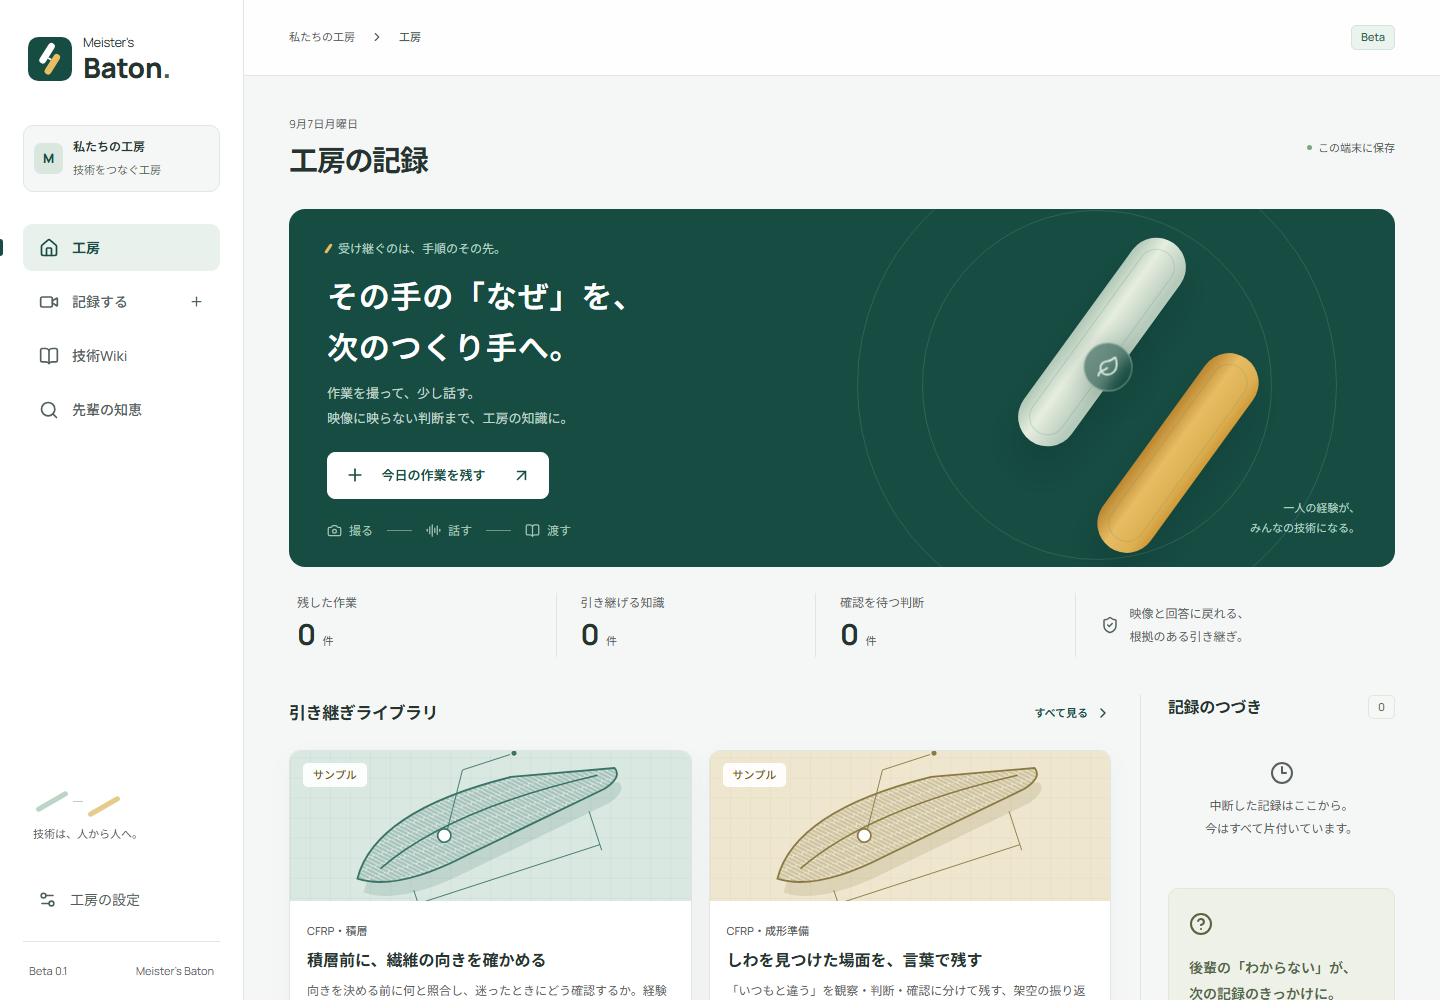
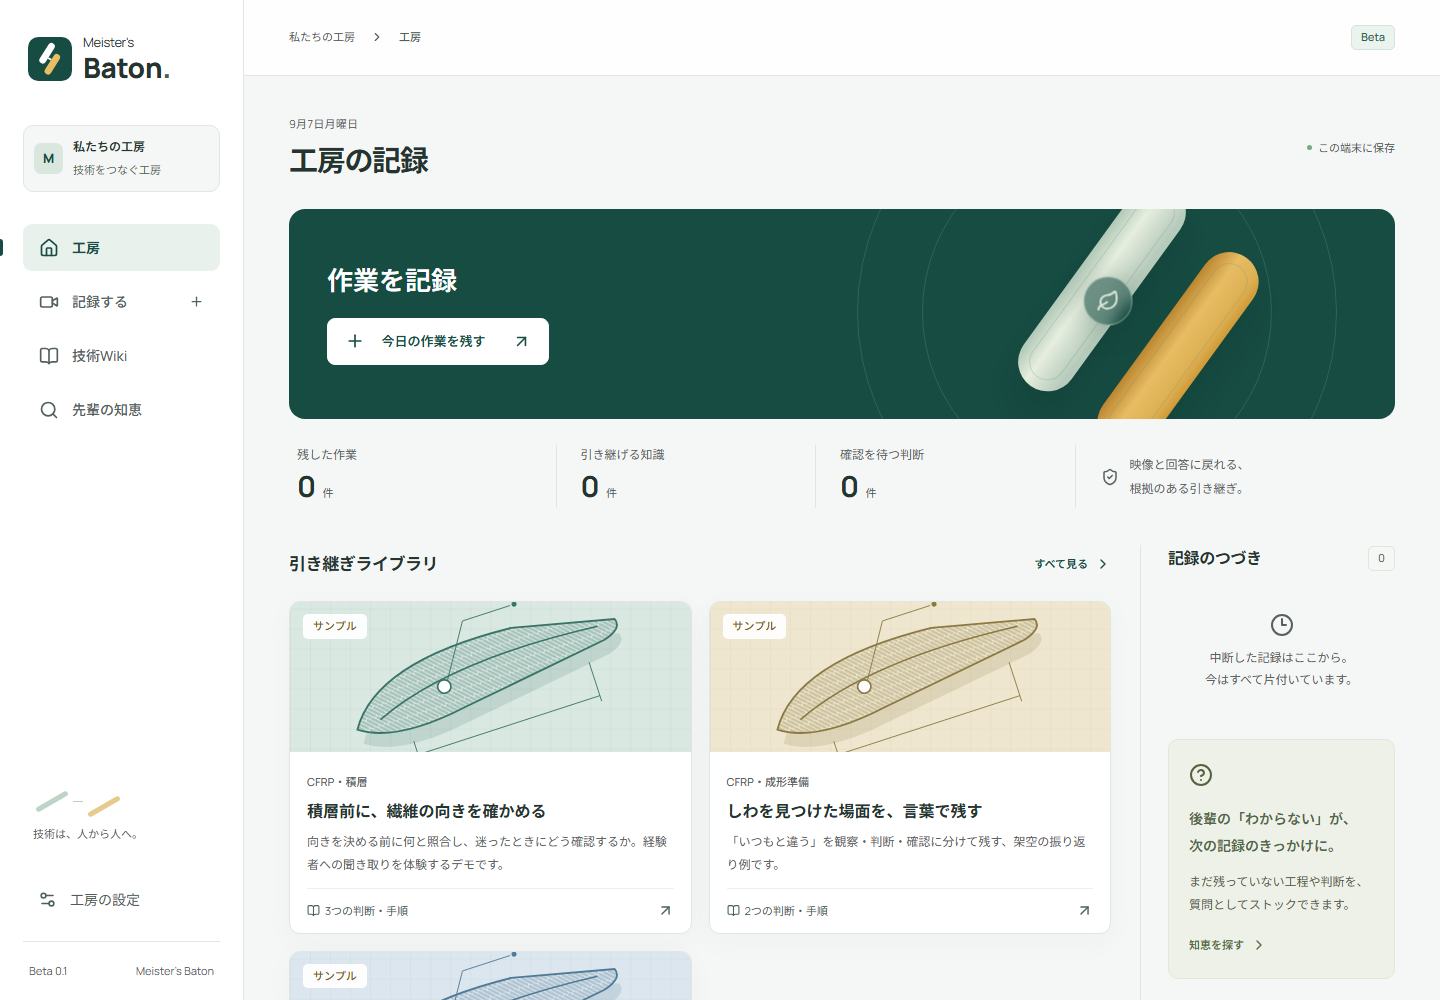
Simplify the home recording panel

diff --git a/src/styles-mobile.css b/src/styles-mobile.css
@@ -1,16 +1,13 @@
 /* Responsive overrides are imported by the main stylesheet and use higher specificity where needed. */
 @media (min-width: 1700px) {
   body .workbench {
-    min-height: 350px;
+    min-height: 230px;
   }
   body .workbench-copy {
-    padding: 37px 43px;
+    padding: 36px 43px;
   }
   body .workbench h2 {
-    font-size: 37px;
-  }
-  body .workbench p {
-    font-size: 13px;
+    font-size: 30px;
   }
   body .tile-image {
     height: 190px;
@@ -45,7 +42,7 @@
     padding-left: 28px;
   }
   body .workbench h2 {
-    font-size: 27px;
+    font-size: 24px;
   }
   body .work-stats > p {
     font-size: 11px;
@@ -291,42 +288,22 @@
   }
   body .workbench {
     border-radius: 12px;
-    min-height: 296px;
+    min-height: 176px;
   }
   body .workbench-copy {
-    padding: 25px 23px 23px;
-  }
-  body .workbench-kicker {
-    font-size: 11px;
+    padding: 23px;
   }
   body .workbench h2 {
-    font-size: 24px;
+    font-size: 20px;
     letter-spacing: 0;
-    line-height: 1.8;
-    margin: 11px 0 9px;
-  }
-  body .workbench p {
-    font-size: 11px;
+    line-height: 1.4;
+    margin: 0 0 17px;
   }
   body .workbench .button {
-    margin-top: 17px;
-    min-width: 205px;
-    font-size: 11px;
+    margin-top: 0;
+    min-width: 190px;
+    font-size: 12px;
     padding: 11px 13px;
-  }
-  body .workbench-flow {
-    font-size: 11px;
-    gap: 9px;
-    margin-top: 20px;
-  }
-  body .workbench-flow span {
-    gap: 5px;
-  }
-  body .workbench-flow i {
-    width: 16px;
-  }
-  body .workbench-flow svg {
-    width: 13px;
   }
   body .baton-art {
     left: 60%;
@@ -365,9 +342,6 @@
   }
   body .art-joint svg {
     width: 17px;
-  }
-  body .art-label {
-    display: none;
   }
   body .work-stats {
     grid-template-columns: repeat(3, 1fr);
@@ -1005,7 +979,7 @@
     padding-right: 19px;
   }
   body .workbench h2 {
-    font-size: 22px;
+    font-size: 19px;
   }
   body .baton-art {
     left: 69%;

diff --git a/src/styles.css b/src/styles.css
@@ -532,7 +532,7 @@ main {
   color: #a3453b;
 }
 .workbench {
-  min-height: 300px;
+  min-height: 210px;
   border-radius: 16px;
   background: var(--green);
   color: white;
@@ -541,40 +541,24 @@ main {
   overflow: hidden;
 }
 .workbench-copy {
-  padding: 30px 38px 27px;
+  padding: 32px 38px;
   position: relative;
   z-index: 2;
   flex-shrink: 0;
-}
-.workbench-kicker {
   display: flex;
-  align-items: center;
-  gap: 8px;
-  color: #b9d3c5;
-  font-size: 11px;
-}
-.baton-mark {
-  height: 11px;
-  width: 3px;
-  border-radius: 4px;
-  background: #e6bc63;
-  transform: rotate(35deg);
-  display: inline-block;
+  flex-direction: column;
+  align-items: flex-start;
+  justify-content: center;
 }
 .workbench h2 {
-  font-size: 31px;
-  line-height: 1.65;
-  letter-spacing: 0.025em;
+  font-size: 26px;
+  line-height: 1.35;
+  letter-spacing: 0;
   font-weight: 600;
-  margin: 12px 0 8px;
-}
-.workbench p {
-  font-size: 11px;
-  color: #c0d8cc;
-  line-height: 1.95;
+  margin: 0 0 20px;
 }
 .workbench .button {
-  margin-top: 20px;
+  margin-top: 0;
   padding: 12px 17px;
   min-width: 222px;
   justify-content: space-between;
@@ -582,25 +566,6 @@ main {
 }
 .workbench .button svg:last-child {
   margin-left: 10px;
-}
-.workbench-flow {
-  display: flex;
-  align-items: center;
-  gap: 14px;
-  color: #a6c5b4;
-  margin-top: 22px;
-  font-size: 11px;
-}
-.workbench-flow span {
-  display: flex;
-  gap: 7px;
-  align-items: center;
-}
-.workbench-flow i {
-  display: block;
-  width: 25px;
-  height: 1px;
-  background: #739385;
 }
 .baton-art {
   position: absolute;
@@ -664,15 +629,6 @@ main {
   color: #dce9df;
   transform: translate(-50%, -50%);
   box-shadow: 0 4px 30px #193e3540;
-}
-.art-label {
-  position: absolute;
-  right: 35px;
-  bottom: 29px;
-  font-size: 11px;
-  text-align: right;
-  line-height: 1.85;
-  color: #b8d2c2;
 }
 .work-stats {
   display: grid;

diff --git a/src/App.tsx b/src/App.tsx
@@ -3,7 +3,6 @@ import {
   ArrowUpRight,
   AudioLines,
   BookOpen,
-  Camera,
   ChevronRight,
   CircleHelp,
   Clock3,
@@ -56,52 +55,18 @@ function HomePage() {
       </div>
       <section className="workbench">
         <div className="workbench-copy">
-          <div className="workbench-kicker">
-            <span className="baton-mark" />
-            <span>受け継ぐのは、手順のその先。</span>
-          </div>
-          <h2>
-            その手の「なぜ」を、
-            <br />
-            次のつくり手へ。
-          </h2>
-          <p>
-            作業を撮って、少し話す。
-            <br />
-            映像に映らない判断まで、工房の知識に。
-          </p>
+          <h2>作業を記録</h2>
           <button className="button light" onClick={() => navigate('capture')}>
             <Plus size={20} />
             今日の作業を残す
             <ArrowUpRight size={19} />
           </button>
-          <div className="workbench-flow">
-            <span>
-              <Camera size={15} />
-              撮る
-            </span>
-            <i />
-            <span>
-              <AudioLines size={15} />
-              話す
-            </span>
-            <i />
-            <span>
-              <BookOpen size={15} />
-              渡す
-            </span>
-          </div>
         </div>
         <div className="baton-art" aria-hidden="true">
           <div className="orbit orbit-one" />
           <div className="orbit orbit-two" />
           <div className="baton-rod rod-one" />
           <div className="baton-rod rod-two" />
-          <span className="art-label">
-            一人の経験が、
-            <br />
-            みんなの技術になる。
-          </span>
           <div className="art-joint">
             <Leaf size={23} />
           </div>

diff --git a/tests/e2e/baton.spec.ts b/tests/e2e/baton.spec.ts
@@ -25,6 +25,8 @@ test('mobile: a new expert answer becomes reviewed searchable knowledge and surv
   page.on('pageerror', (e) => errors.push(e.message));
   await page.goto('/');
   await expect(page.getByRole('heading', { name: '工房の記録', exact: true })).toBeVisible();
+  await expect(page.getByRole('heading', { name: '作業を記録', exact: true })).toBeVisible();
+  await expect(page.getByText('その手の「なぜ」を、')).toHaveCount(0);
   await page.getByRole('button', { name: '今日の作業を残す' }).click();
   await page.getByLabel(/作業の名前/).fill('試験用治具の引き継ぎ');
   await page.getByLabel(/作業メモ/).fill('青い印を確認する工程。練習用のテスト記録です。');

diff --git a/src/styles-refinements.css b/src/styles-refinements.css
@@ -33,15 +33,6 @@ fieldset {
 .tile-body > div > span {
   font-size: 11px;
 }
-.workbench p {
-  font-size: 13px;
-}
-.workbench-kicker {
-  font-size: 12px;
-}
-.workbench-flow {
-  font-size: 12px;
-}
 .workbench .button {
   font-size: 13px;
 }
@@ -268,15 +259,6 @@ fieldset {
   min-height: 44px;
 }
 @media (max-width: 760px) {
-  body .workbench-kicker {
-    font-size: 11px;
-  }
-  body .workbench p {
-    font-size: 12px;
-  }
-  body .workbench-flow {
-    font-size: 11px;
-  }
   body .workbench .button {
     font-size: 12px;
   }
